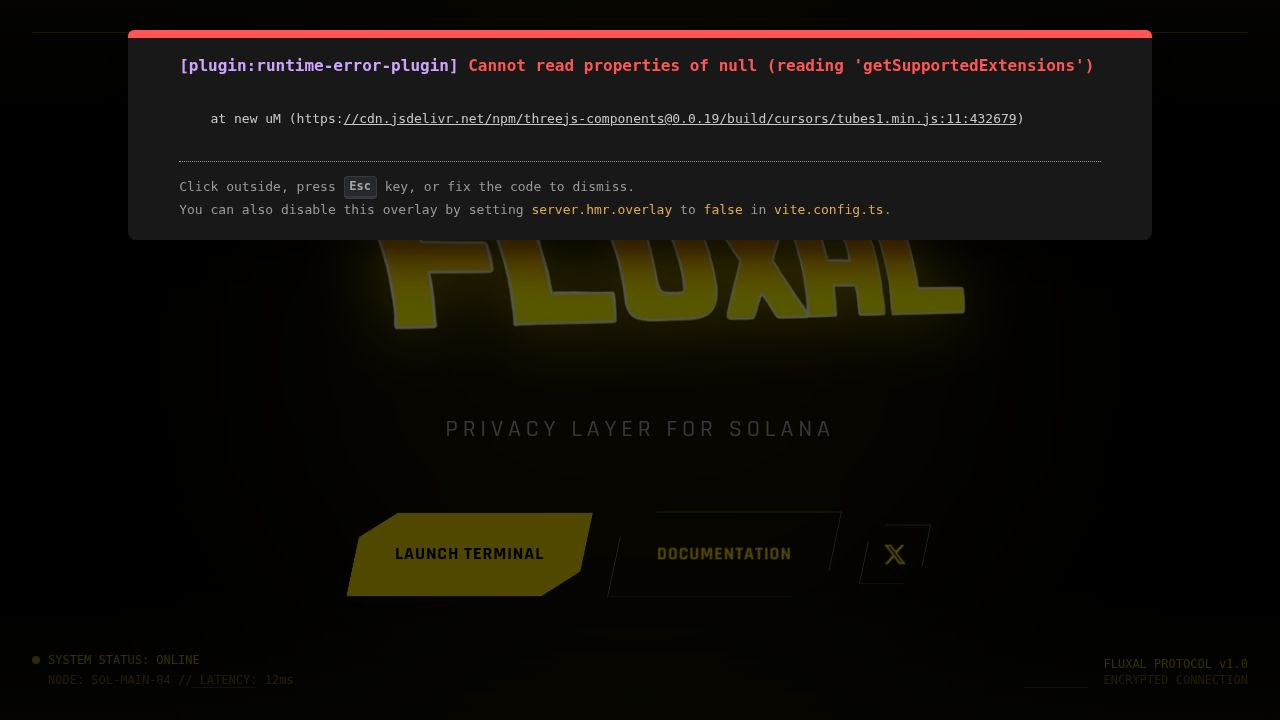
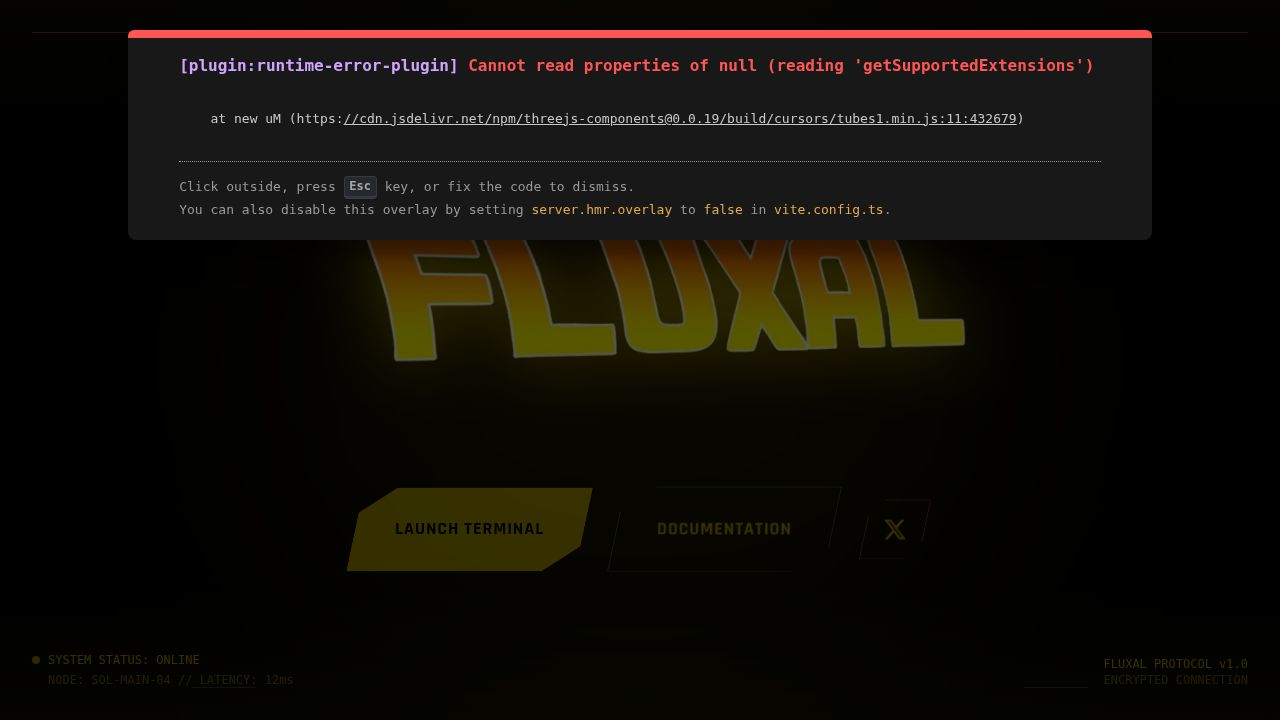
Update navigation links and remove redundant text from homepage
Modify client/src/pages/home.tsx to remove "Privacy Layer for Solana". Update client/src/pages/landing.tsx to implement section scrolling navigation for HOME, FEATURES, PRODUCTS, NEWS, DOCS, and FAQ by adding appropriate href anchors.

Replit-Commit-Author: Agent
Replit-Commit-Session-Id: 9b7d6d95-deca-4a4c-8dec-4b75049f022c
Replit-Commit-Checkpoint-Type: full_checkpoint
Replit-Commit-Event-Id: 5538308f-954f-4661-af06-a0355fe16bf9
Replit-Commit-Screenshot-Url: https://storage.googleapis.com/screenshot-production-us-central1/56b10789-079f-4fa8-a399-7307f52e1f15/9b7d6d95-deca-4a4c-8dec-4b75049f022c/QEtPuti
Replit-Helium-Checkpoint-Created: true

diff --git a/client/src/pages/landing.tsx b/client/src/pages/landing.tsx
@@ -62,12 +62,12 @@ export default function Landing() {
 
         <div className="flex items-center gap-8">
           <div className="hidden md:flex items-center gap-8 font-neue text-xs text-gray-400 tracking-widest font-bold">
-            <a href="#" className="hover:text-[#FFE500] transition-colors">HOME</a>
-            <a href="#" className="hover:text-[#FFE500] transition-colors">FEATURES</a>
-            <a href="#" className="hover:text-[#FFE500] transition-colors">PRODUCTS</a>
-            <a href="#" className="hover:text-[#FFE500] transition-colors">NEWS</a>
-            <a href="#" className="hover:text-[#FFE500] transition-colors">DOCS</a>
-            <a href="#" className="hover:text-[#FFE500] transition-colors">FAQ</a>
+            <a data-testid="link-nav-home" href="#home" className="hover:text-[#FFE500] transition-colors">HOME</a>
+            <a data-testid="link-nav-features" href="#features" className="hover:text-[#FFE500] transition-colors">FEATURES</a>
+            <a data-testid="link-nav-products" href="#products" className="hover:text-[#FFE500] transition-colors">PRODUCTS</a>
+            <a data-testid="link-nav-news" href="#news" className="hover:text-[#FFE500] transition-colors">NEWS</a>
+            <a data-testid="link-nav-docs" href="#docs" className="hover:text-[#FFE500] transition-colors">DOCS</a>
+            <a data-testid="link-nav-faq" href="#faq" className="hover:text-[#FFE500] transition-colors">FAQ</a>
           </div>
 
           <Button 
@@ -94,7 +94,7 @@ export default function Landing() {
       </div>
 
       {/* Main Hero Section */}
-      <div className="relative z-10 flex flex-col md:flex-row min-h-screen pt-52 px-8 md:px-20 items-center">
+      <div id="home" className="relative z-10 flex flex-col md:flex-row min-h-screen pt-52 px-8 md:px-20 items-center">
         
         {/* Left Content */}
         <div className="flex-1 flex flex-col justify-center space-y-8">
@@ -165,7 +165,7 @@ export default function Landing() {
       </div>
 
       {/* Features Section */}
-      <div className="relative z-20 w-full bg-transparent py-20 px-8 md:px-20 border-t border-[#FFE500]/20">
+      <div id="features" className="relative z-20 w-full bg-transparent py-20 px-8 md:px-20 border-t border-[#FFE500]/20">
         <div className="max-w-7xl mx-auto">
           {/* Section Header */}
           <div className="text-center mb-16">
@@ -397,7 +397,7 @@ export default function Landing() {
           </div>
 
           {/* FLUXAL WALLET Product Section */}
-          <div className="mt-32 mb-32">
+          <div id="products" className="mt-32 mb-32">
             <div className="text-center mb-12">
               <h2 className="text-3xl md:text-5xl font-neue font-bold text-white mb-4 uppercase tracking-wide">
                 PRODUCTS
@@ -445,7 +445,7 @@ export default function Landing() {
           </div>
 
            {/* FLUXAL SDK & INFRA Section */}
-           <div className="mt-32 mb-32 border-t border-[#FFE500]/10 pt-32">
+           <div id="docs" className="mt-32 mb-32 border-t border-[#FFE500]/10 pt-32">
              <div className="text-center mb-20">
               <p className="text-gray-400 text-sm font-bold uppercase tracking-widest mb-2">
                 FOR DEVELOPERS
@@ -490,7 +490,7 @@ export default function Landing() {
            </div>
 
            {/* Footer */}
-           <div className="border-t border-[#FFE500]/20 pt-12 pb-12 grid grid-cols-1 md:grid-cols-3 items-center gap-8">
+           <div id="faq" className="border-t border-[#FFE500]/20 pt-12 pb-12 grid grid-cols-1 md:grid-cols-3 items-center gap-8">
              <div className="hidden md:block" /> {/* Empty Left Column */}
              
              <div className="flex justify-center gap-12 text-xs text-gray-500 font-mono tracking-widest">

diff --git a/client/src/pages/home.tsx b/client/src/pages/home.tsx
@@ -69,7 +69,7 @@ export default function Home() {
             transition={{ delay: 0.4, duration: 0.6 }}
             className="mt-6 text-xl md:text-2xl text-neutral-400 font-rajdhani tracking-[0.2em] uppercase font-medium"
           >
-            Privacy Layer for Solana
+            
           </motion.p>
 
           {/* Action Buttons */}
